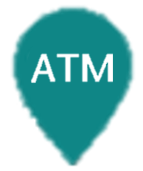
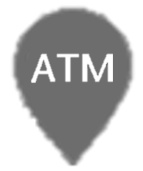
chore: ATM마커 이미지 변경 및 토글 로직 변경

diff --git a/src/pages/Location/FindBank.tsx b/src/pages/Location/FindBank.tsx
@@ -61,11 +61,6 @@ const FindBank = () => {
     }
   }, []);
 
-  const isDuplicateLocation = (lat1, lng1, lat2, lng2) => {
-    const distance = Math.sqrt((lat1 - lat2) ** 2 + (lng1 - lng2) ** 2);
-    return distance < 0.0001; // 작은 거리로 설정하여 중복으로 간주
-  };
-
   useEffect(() => {
     if (!userLocation) return;
 
@@ -129,6 +124,7 @@ const FindBank = () => {
                   position: location.latlng,
                   title: location.title,
                   image: markerImage,
+                  zIndex: 2, // Set higher zIndex for branches
                 });
 
                 window.kakao.maps.event.addListener(marker, 'click', () => {
@@ -143,7 +139,7 @@ const FindBank = () => {
             }
           });
 
-          // Search for ATMs and avoid duplicates
+          // Search for ATMs without filtering
           places.keywordSearch(`${userDistrict} 하나은행 ATM`, (result, status) => {
             if (status === window.kakao.maps.services.Status.OK) {
               const atmLocations = result.map((place) => ({
@@ -156,14 +152,9 @@ const FindBank = () => {
                 `,
                 type: 'atm',
               }));
-              const uniqueATMLocations = atmLocations.filter((atm) => {
-                return !positions.some((branch) =>
-                  isDuplicateLocation(atm.lat, atm.lng, branch.lat, branch.lng)
-                );
-              });
-              setATMPositions(uniqueATMLocations);
+              setATMPositions(atmLocations);
 
-              uniqueATMLocations.forEach((location) => {
+              atmLocations.forEach((location) => {
                 const markerImage = new window.kakao.maps.MarkerImage(
                   markerAtmImg,
                   new window.kakao.maps.Size(30, 35)
@@ -173,6 +164,7 @@ const FindBank = () => {
                   position: location.latlng,
                   title: location.title,
                   image: markerImage,
+                  zIndex: 1, // Set lower zIndex for ATMs
                 });
 
                 // ATM 마커 클릭 시 selectedLocation 업데이트
